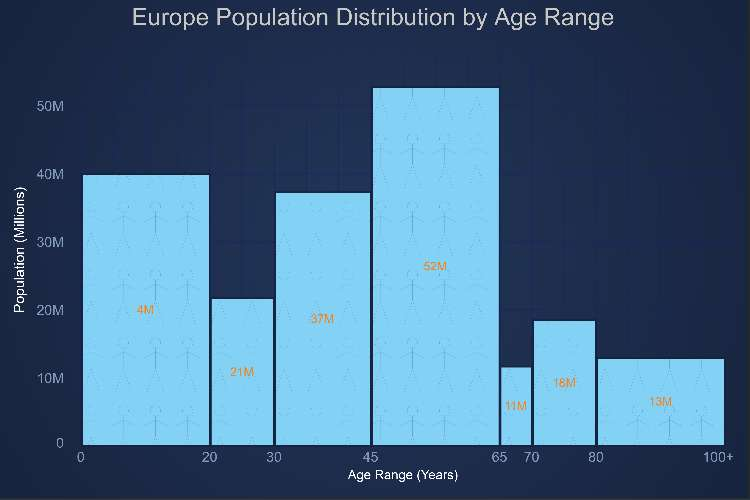
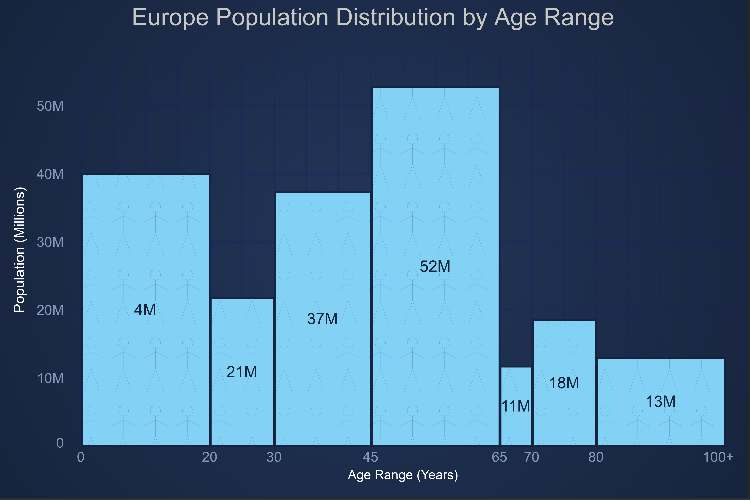
fix(examples) - historgam data-labels update

diff --git a/Examples/src/components/Examples/Charts2D/v4Charts/HistogramChart/drawExample.ts b/Examples/src/components/Examples/Charts2D/v4Charts/HistogramChart/drawExample.ts
@@ -227,9 +227,9 @@ export const drawExample = async (rootElement: string | HTMLDivElement) => {
             textureHeight: 40,
         }),
         dataLabels: {
-            color: appTheme.VividOrange,
+            color: appTheme.DarkIndigo,
             style: {
-                fontSize: 12,
+                fontSize: 16,
             },
             precision: 0,
             numericFormat: ENumericFormat.Engineering,
